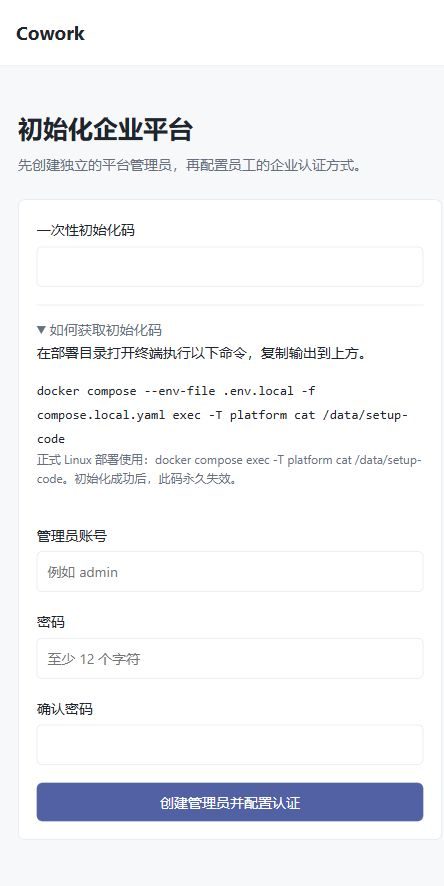
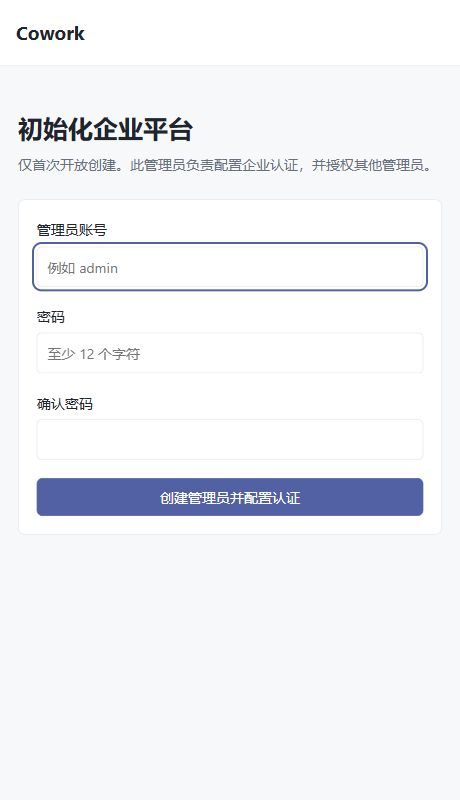
fix: 简化首次管理员创建并限制管理员授权来源

diff --git a/web/platform/ui/platform.js b/web/platform/ui/platform.js
@@ -52,7 +52,7 @@ async function login(){
   form.onsubmit=event=>{event.preventDefault();action(async()=>{const values=formData(form),source=data.items.find(x=>x.id===values.provider_id);form.querySelector("button").disabled=true;try{if(source.mode==="ldap"){await api("/auth/ldap",{method:"POST",body:{...values,mode:"web"}});me=await api("/me");dirty=false;await render();}else{const result=await api("/auth/transactions",{method:"POST",body:{provider_id:values.provider_id,mode:"web"}});location.assign(result.login_url);}}finally{form.querySelector("button").disabled=false;}});};
 }
 function administratorForm(setup){
-  content.innerHTML=`<section class="login"><h1>${setup?"初始化企业平台":"平台管理员登录"}</h1><p class="muted">${setup?"先创建独立的平台管理员，再配置员工的企业认证方式。":"使用部署时创建的管理员账号管理平台。"}</p><form id="administrator-form" class="form">${setup?`<label>一次性初始化码<input required name="setup_code" autocomplete="off" spellcheck="false"></label><details><summary>如何获取初始化码</summary><p>在部署目录打开终端执行以下命令，复制输出到上方。</p><pre>docker compose --env-file .env.local -f compose.local.yaml exec -T platform cat /data/setup-code</pre><p class="help">正式 Linux 部署使用：docker compose exec -T platform cat /data/setup-code。初始化成功后，此码永久失效。</p></details>`:""}<label>管理员账号<input required name="username" autocomplete="username" maxlength="64" ${setup?'minlength="3" pattern="[A-Za-z0-9][A-Za-z0-9._-]{2,63}" placeholder="例如 admin"':""}></label><label>密码<input required type="password" name="password" autocomplete="${setup?"new-password":"current-password"}" maxlength="256" ${setup?'minlength="12" placeholder="至少 12 个字符"':""}></label>${setup?'<label>确认密码<input required type="password" name="confirmation" autocomplete="new-password" minlength="12" maxlength="256"></label>':""}<button class="primary">${setup?"创建管理员并配置认证":"登录管理后台"}</button>${setup?"":`<a href="${base}/app" data-route>返回企业账号登录</a>`}</form></section>`;
+  content.innerHTML=`<section class="login"><h1>${setup?"初始化企业平台":"平台管理员登录"}</h1><p class="muted">${setup?"仅首次开放创建。此管理员负责配置企业认证，并授权其他管理员。":"使用部署时创建的管理员账号管理平台。"}</p><form id="administrator-form" class="form"><label>管理员账号<input required name="username" autocomplete="username" maxlength="64" ${setup?'minlength="3" pattern="[A-Za-z0-9][A-Za-z0-9._-]{2,63}" placeholder="例如 admin"':""}></label><label>密码<input required type="password" name="password" autocomplete="${setup?"new-password":"current-password"}" maxlength="256" ${setup?'minlength="12" placeholder="至少 12 个字符"':""}></label>${setup?'<label>确认密码<input required type="password" name="confirmation" autocomplete="new-password" minlength="12" maxlength="256"></label>':""}<button class="primary">${setup?"创建管理员并配置认证":"登录管理后台"}</button>${setup?"":`<a href="${base}/app" data-route>返回企业账号登录</a>`}</form></section>`;
   const form=document.getElementById("administrator-form");watchForm(form);
   form.onsubmit=event=>{event.preventDefault();action(async()=>{const values=formData(form);if(setup&&values.password!==values.confirmation)throw new Error("两次输入的密码不一致，请核对。");const submit=form.querySelector("button");submit.disabled=true;try{await api(setup?"/setup":"/auth/administrator",{method:"POST",body:values});dirty=false;me=await api("/me");navigate("/app/settings");}finally{submit.disabled=false;}});};
 }
@@ -64,11 +64,11 @@ async function members(){
   const show=()=>{const query=document.getElementById("member-search").value.toLowerCase();const filtered=members.items.filter(x=>(x.name+" "+x.email).toLowerCase().includes(query));table.innerHTML=filtered.length?`<table><thead><tr><th>成员</th><th>角色 / 状态</th><th>已分配模型</th><th>最近登录</th><th>操作</th></tr></thead><tbody>${filtered.map(m=>`<tr><td>${esc(m.name)}<span class="secondary-line">${esc(m.email||m.provider_id)}</span></td><td>${m.role==="admin"?"管理员":"成员"} · ${m.enabled?"启用":"停用"}</td><td>${m.model_ids.length?esc(m.model_ids.map(id=>models.items.find(x=>x.id===id)?.name||id).join("、")):"尚未分配"}</td><td>${date(m.last_login_at)}</td><td><button data-member="${esc(m.id)}">管理与分配</button></td></tr>`).join("")}</tbody></table>`:empty("尚无匹配成员；员工首次认证成功后会出现在这里。");table.querySelectorAll("[data-member]").forEach(b=>b.onclick=()=>navigate("/app/members/"+b.dataset.member));};document.getElementById("member-search").oninput=show;show();
 }
 function editMember(member,models){
-  heading(member.name,"模型权限按账号生效，不同步员工本机对话。","/app/members");
+  heading(member.name,"模型权限按账号生效；管理员角色由首位管理员授权或收回。","/app/members");
   content.insertAdjacentHTML("beforeend",`<form class="form" id="member-form"><div class="row"><label>平台角色<select name="role"><option value="member" ${member.role==="member"?"selected":""}>普通成员</option><option value="admin" ${member.role==="admin"?"selected":""}>平台管理员</option></select></label><label>账号状态<select name="enabled"><option value="true" ${member.enabled?"selected":""}>启用</option><option value="false" ${!member.enabled?"selected":""}>停用</option></select></label></div><div><h3>可用模型</h3><div class="check-list">${models.length?models.map(m=>`<label><input type="checkbox" name="models" value="${esc(m.id)}" ${member.model_ids.includes(m.id)?"checked":""}>${esc(m.name)}${m.enabled?"":"（当前停用）"}</label>`).join(""):"请先在模型页面添加服务。"}</div></div><label>默认模型<select name="default_model_id"><option value="">不设置（未分配模型）</option>${models.map(m=>`<option value="${esc(m.id)}" ${m.id===member.default_model_id?"selected":""}>${esc(m.name)}</option>`).join("")}</select></label><div class="actions-row"><button class="primary">保存权限</button><button type="button" id="cancel-member">取消</button></div></form>`);
-  const form=document.getElementById("member-form");watchForm(form);document.getElementById("cancel-member").onclick=()=>navigate("/app/members");
+  const form=document.getElementById("member-form");form.elements.role.disabled=!me.can_assign_admin||member.provider_id==="__platform_admin__";form.elements.enabled.disabled=member.provider_id==="__platform_admin__";watchForm(form);document.getElementById("cancel-member").onclick=()=>navigate("/app/members");
   const syncDefault=()=>{const selected=new FormData(form).getAll("models"),current=form.elements.default_model_id.value;const allowed=models.filter(m=>selected.includes(m.id));form.elements.default_model_id.innerHTML=allowed.length?allowed.map(m=>`<option value="${esc(m.id)}">${esc(m.name)}</option>`).join(""):'<option value="">未分配模型</option>';if(selected.includes(current))form.elements.default_model_id.value=current;};form.querySelectorAll('[name="models"]').forEach(input=>input.addEventListener("change",syncDefault));syncDefault();
-  form.onsubmit=e=>{e.preventDefault();action(async()=>{const values=formData(form);await api("/admin/members/"+member.id,{method:"PUT",body:{revision:member.revision,role:values.role,enabled:values.enabled==="true",model_ids:new FormData(form).getAll("models"),default_model_id:values.default_model_id}});dirty=false;navigate("/app/members");message("成员权限已保存。","success");});};
+  form.onsubmit=e=>{e.preventDefault();action(async()=>{const values=formData(form);await api("/admin/members/"+member.id,{method:"PUT",body:{revision:member.revision,role:values.role||member.role,enabled:values.enabled===undefined?member.enabled:values.enabled==="true",model_ids:new FormData(form).getAll("models"),default_model_id:values.default_model_id}});dirty=false;navigate("/app/members");message("成员权限已保存。","success");});};
 }
 async function models(){
   const data=await api("/admin/models");heading("模型","添加服务、测试实际调用，再分配给成员。");

diff --git a/test/test_enterprise_setup.py b/test/test_enterprise_setup.py
@@ -23,8 +23,7 @@ def server(tmp_path):
 
 
 def create_admin(client, settings, **changes):
-    payload = dict(setup_code=(settings.data_dir/'setup-code').read_text().strip(),
-                   username='admin', password='unique administrator password')
+    payload = dict(username='admin', password='unique administrator password')
     payload.update(changes)
     return client.post('/api/v1/setup', json=payload)
 
@@ -53,11 +52,9 @@ def test_setup_login_and_configuration_without_enterprise_auth(server):
         assert len(credential.password_hash) == 128
 
 
-def test_setup_code_and_origin_protection(server):
+def test_setup_validation_and_origin_protection(server):
     client, app, settings = server
-    assert create_admin(client, settings, setup_code='wrong').status_code == 403
-    assert create_admin(client, settings, setup_code='错误初始化码').status_code == 403
-    payload=dict(setup_code=(settings.data_dir/'setup-code').read_text().strip(),username='admin',password='long enough password')
+    payload=dict(username='admin',password='long enough password')
     assert client.post('/api/v1/setup', json=payload, headers={'Origin':'https://untrusted.invalid'}).status_code == 403
     assert create_admin(client, settings, password='short').status_code == 400
     assert client.get('/api/v1/setup').json()['required']
@@ -93,11 +90,6 @@ def test_setup_rejects_concurrent_claim(server):
 
 def test_throttling_persists_and_recovers(server):
     client, app, settings = server
-    for _ in range(5):
-        assert create_admin(client, settings, setup_code='wrong').status_code == 403
-    assert create_admin(client, settings).status_code == 429
-    with app.state.database.transaction() as db:
-        db.get(Installation,1).locked_until=time.time()-1
     assert create_admin(client, settings).status_code == 200
     for _ in range(5):
         assert client.post('/api/v1/auth/administrator',json={'username':'admin','password':'wrong'}).status_code == 401
@@ -111,3 +103,36 @@ def test_disabled_admin_cannot_login(server):
     with app.state.database.transaction() as db:
         db.scalar(select(Member)).enabled=False
     assert client.post('/api/v1/auth/administrator',json={'username':'admin','password':'unique administrator password'}).status_code == 401
+
+
+def test_only_founder_can_authorize_another_administrator(server):
+    client, app, settings = server
+    assert create_admin(client, settings).status_code == 200
+    founder=client.get('/api/v1/me').json()['member']['id']
+    with app.state.database.transaction() as db:
+        member=Member(provider_id='sso',subject='employee',name='员工')
+        another=Member(provider_id='sso',subject='another',name='另一个员工')
+        db.add_all([member,another]);db.flush()
+        member_id,another_id=member.id,another.id
+    payload={'revision':1,'role':'admin'}
+    session=app.state.auth.session(member_id,'web')
+    headers={'Authorization':'Bearer '+session['access_token']}
+    assert client.put('/api/v1/admin/members/'+member_id,json=payload,headers=headers).status_code==403
+    csrf={'X-CSRF-Token':client.cookies['cowork_csrf']}
+    assert client.put('/api/v1/admin/members/'+member_id,json=payload,headers=csrf).status_code==200
+    assert client.put('/api/v1/admin/members/'+another_id,json=payload,headers=headers).status_code==403
+    assert client.put('/api/v1/admin/members/'+founder,json={'revision':1,'enabled':False},headers=headers).status_code==409
+    assert client.put('/api/v1/admin/members/'+member_id,json={'revision':2,'role':'member'},headers=csrf).status_code==200
+    assert create_admin(client,settings).status_code==409
+
+
+def test_legacy_bootstrap_cannot_grant_admin_after_setup(server):
+    from dataclasses import replace
+    client,app,settings=server
+    assert create_admin(client,settings).status_code==200
+    app.state.auth.settings=replace(settings,bootstrap_provider='legacy',bootstrap_subject='new-person')
+    with app.state.database.transaction() as db:
+        db.add(AuthSource(id='legacy',name='legacy',mode='oauth2',config={},secret='',enabled=True,revision=1,verified_revision=1))
+    member_id=app.state.auth.register({'id':'legacy','revision':1,'verified_revision':1},{'subject':'new-person','name':'new-person','email':''})
+    with app.state.database.transaction() as db:
+        assert db.get(Member,member_id).role=='member'

diff --git a/web/platform/server/administrator.py b/web/platform/server/administrator.py
@@ -1,7 +1,6 @@
 """One-time deployment setup and a separate, web-only platform administrator."""
 import hashlib
 import logging
-import os
 import re
 import threading
 import time
@@ -22,7 +21,6 @@ class AdministratorAccess:
     def __init__(self, settings, database):
         self.settings, self.database = settings, database
         self.lock = threading.RLock()
-        self.code_path = settings.data_dir / 'setup-code'
 
     def available(self, db):
         state = db.get(Installation, 1)
@@ -34,14 +32,7 @@ class AdministratorAccess:
                 db.add(Installation(id=1))
                 db.flush()
             if self.available(db):
-                try:
-                    fd = os.open(self.code_path, os.O_WRONLY | os.O_CREAT | os.O_EXCL, 0o600)
-                except FileExistsError:
-                    pass
-                else:
-                    with os.fdopen(fd, 'w', encoding='ascii') as file:
-                        file.write(token() + '\n')
-                log.info('installation.pending code_file=/data/setup-code')
+                log.info('installation.pending')
 
     def status(self):
         with self.database.transaction() as db:
@@ -72,22 +63,15 @@ class AdministratorAccess:
             state = db.get(Installation, 1)
             if not self.available(db):
                 raise PlatformError('setup_completed', '平台已完成初始化，请使用已有管理员账号登录。', 409)
-            self.throttle(state)
-            code = payload.get('setup_code')
-            if not isinstance(code, str) or not equal(digest(code), digest(self.code_path.read_text(encoding='ascii').strip())):
-                self.reject(db, state, 'installation.rejected')
-            else:
-                salt = token()
-                member = Member(provider_id='__platform_admin__', subject=username, name=username, role='admin')
-                db.add(member)
-                db.flush()
-                db.add(LocalAdministrator(id=1, member_id=member.id, username=username,
-                                          password_hash=password_hash(password, salt), salt=salt))
-                state.completed, state.failures, state.locked_until = True, 0, 0
-                member_id = member.id
-                self.database.audit(db, 'installation.completed', member_id=member_id)
-        if not member_id:
-            raise PlatformError('setup_code_invalid', '初始化码不正确，请从部署服务器获取后重试。', 403)
+            salt = token()
+            member = Member(provider_id='__platform_admin__', subject=username, name=username, role='admin')
+            db.add(member)
+            db.flush()
+            db.add(LocalAdministrator(id=1, member_id=member.id, username=username,
+                                      password_hash=password_hash(password, salt), salt=salt))
+            state.completed, state.failures, state.locked_until = True, 0, 0
+            member_id = member.id
+            self.database.audit(db, 'installation.completed', member_id=member_id)
         log.info('installation.completed member=%s', member_id)
         return member_id
 

diff --git a/web/platform/server/auth.py b/web/platform/server/auth.py
@@ -12,7 +12,7 @@ from sqlalchemy import select, update
 from sqlalchemy.exc import IntegrityError
 
 from .config import service_url
-from .database import AuthSource, LoginSession, LoginTransaction, Member
+from .database import AuthSource, Installation, LoginSession, LoginTransaction, Member, Platform
 from .security import PlatformError, challenge, digest, equal, token
 
 log = logging.getLogger(__name__)
@@ -323,14 +323,18 @@ class Authentication:
                 "email": str(field(profile, p["email_path"], "") or "")[:512]}
 
     def register(self, snapshot, identity):
-        bootstrap = (snapshot["id"] == self.settings.bootstrap_provider
+        bootstrap_candidate = (snapshot["id"] == self.settings.bootstrap_provider
                      and identity["subject"] == self.settings.bootstrap_subject)
-        if snapshot.get("verified_revision") != snapshot["revision"] and not (bootstrap or snapshot.get("test_actor")):
-            raise PlatformError("source_not_verified", "管理员尚未完成此认证配置的测试登录。", 403)
         # Unique provider+subject plus retry resolves simultaneous first logins.
         for attempt in range(2):
             try:
                 with self.database.transaction() as db:
+                    db.scalar(select(Platform).where(Platform.id == 1).with_for_update())
+                    installation = db.get(Installation, 1)
+                    bootstrap = (bootstrap_candidate and not (installation and installation.completed)
+                                 and not db.scalar(select(Member.id).limit(1)))
+                    if snapshot.get("verified_revision") != snapshot["revision"] and not (bootstrap or snapshot.get("test_actor")):
+                        raise PlatformError("source_not_verified", "管理员尚未完成此认证配置的测试登录。", 403)
                     source = db.get(AuthSource, snapshot["id"])
                     if source is None or source.revision != snapshot["revision"]:
                         raise PlatformError("source_changed", "登录期间认证配置已变更，请重新登录。", 409)
@@ -355,6 +359,8 @@ class Authentication:
                     member.name, member.email, member.last_login_at = identity["name"], identity["email"], time.time()
                     if bootstrap:
                         source.verified_revision = source.revision
+                        if installation:
+                            installation.completed = True
                     return member.id
             except IntegrityError:
                 if attempt:

diff --git a/web/platform/server/management.py b/web/platform/server/management.py
@@ -8,7 +8,7 @@ from sqlalchemy import delete, func, select
 from sqlalchemy.exc import IntegrityError
 
 from .config import service_url
-from .database import AuthSource, LoginSession, Member, Model, ModelGrant, Question
+from .database import AuthSource, LocalAdministrator, LoginSession, Member, Model, ModelGrant, Question
 from .security import PlatformError, digest, encode, equal
 
 MODEL_OPTIONS = {"supports_vision", "supports_image_generation", "stream_usage_enabled", "deepseek_thinking_enabled",
@@ -76,6 +76,11 @@ class Management:
             enabled = payload.get("enabled", member.enabled)
             if role not in {"admin", "member"} or type(enabled) is not bool:
                 raise PlatformError("invalid_member", "成员角色或启用状态无效。")
+            founder = db.get(LocalAdministrator, 1)
+            if founder and member.id == founder.member_id and (role != "admin" or not enabled):
+                raise PlatformError("founder_required", "首位管理员负责管理员授权，不能停用或降级。", 409)
+            if founder and role != member.role and actor != founder.member_id:
+                raise PlatformError("founder_required", "管理员角色只能由首位管理员授权或收回。", 403)
             if member.role == "admin" and member.enabled and (role != "admin" or not enabled):
                 admins = db.scalar(select(func.count()).select_from(Member).where(Member.role == "admin", Member.enabled))
                 if admins <= 1:

diff --git a/web/platform/server/app.py b/web/platform/server/app.py
@@ -21,7 +21,7 @@ from .auth import Authentication, oauth_compatibility_preset
 from .administrator import AdministratorAccess
 from .config import Settings
 from .database import (AuditEvent, AuthSource, ClientRelease, Database, LoginSession, LoginTransaction,
-                       Member, Model, Platform, Question)
+                       LocalAdministrator, Member, Model, Platform, Question)
 from .management import Management, member_view, model_view
 from .releases import Releases, public_release
 from .security import PlatformError, Vault, digest
@@ -306,7 +306,11 @@ def create_app(settings=None, *, transport=None):
     @app.get("/api/v1/me")
     def me(request: Request):
         user = principal(request)
-        return {"member": user, "models": management.models(user["id"]), "platform_id": settings.platform_id}
+        with database.transaction() as db:
+            founder = db.get(LocalAdministrator, 1)
+            can_assign_admin = user["role"] == "admin" and (not founder or founder.member_id == user["id"])
+        return {"member": user, "models": management.models(user["id"]), "platform_id": settings.platform_id,
+                "can_assign_admin": can_assign_admin}
 
     @app.post("/api/v1/auth/logout")
     def logout(request: Request):

diff --git a/web/platform/README.md b/web/platform/README.md
@@ -15,21 +15,21 @@
 
 本机配置使用 `compose.local.yaml`，仅映射 `127.0.0.1:8788`，数据库不对宿主机开放端口。数据库和发布文件使用独立命名卷；该入口运行真实中心服务，不注入演示管理员。
 
-首次已构建或导入 `cowork-enterprise:local` 镜像后，在此文件夹执行 `powershell -NoProfile -ExecutionPolicy Bypass -File .\start-local.ps1`。脚本首次生成 `.env.local` 的随机数据库密码和加密密钥，以后保留原配置；请保管此文件，不要在已有数据卷时删除重建。访问 `http://localhost:8788/app`。首次打开网页会进入初始化页面：获取一次性初始化码，创建独立管理员账号，然后在“设置 → 添加认证来源”配置企业认证。
+首次已构建或导入 `cowork-enterprise:local` 镜像后，在此文件夹执行 `powershell -NoProfile -ExecutionPolicy Bypass -File .\start-local.ps1`。脚本首次生成 `.env.local` 的随机数据库密码和加密密钥，以后保留原配置；请保管此文件，不要在已有数据卷时删除重建。访问 `http://localhost:8788/app`。首次打开网页会进入初始化页面：直接创建首位独立管理员账号，然后在“设置 → 添加认证来源”配置企业认证。
 
 停止：`docker compose --env-file .env.local -f compose.local.yaml stop`。重新启动：再次运行启动脚本。导出的镜像包不包含本机凭据或数据库；镜像导入可用 `docker load -i images.tar`。
 
 ## 首次网页初始化与管理员登录
 
 1. 启动容器后打开 `/app`，空平台自动显示“初始化企业平台”。
-2. 在部署目录执行下面命令获取一次性初始化码：
-   - 本机：`docker compose --env-file .env.local -f compose.local.yaml exec -T platform cat /data/setup-code`
-   - Linux：`docker compose exec -T platform cat /data/setup-code`
-3. 在网页填写初始化码、管理员账号、密码及确认密码。账号为 3–64 位字母、数字、点、横线或下划线；密码至少 12 个字符。
-4. 创建后直接进入“设置”，点击“添加认证来源”，填写 OAuth2、OIDC 或 LDAP 参数；保存草稿、完成测试登录、启用。
-5. 员工使用企业认证登录；管理员使用登录页的“平台管理员登录”。尚无启用的企业认证时，网页直接显示管理员登录。
+2. 在网页填写管理员账号、密码及确认密码，直接创建首位管理员。账号为 3–64 位字母、数字、点、横线或下划线；密码至少 12 个字符。
+3. 创建后直接进入“设置”，点击“添加认证来源”，填写 OAuth2、OIDC 或 LDAP 参数；保存草稿、完成测试登录、启用。
+4. 员工使用企业认证登录，默认是普通成员；首位管理员在“成员 → 管理与分配”授予或收回管理员角色。其他管理员不能转授管理员角色。
+5. 管理员使用登录页的“平台管理员登录”。尚无启用的企业认证时，网页直接显示管理员登录。
 
-管理员密码按随机盐和 scrypt 派生存储，不能读取原密码。此管理员入口仅提供网页会话，不作为员工桌面认证来源。初始化码只保存在部署卷的 `setup-code` 文件中，不由网页公开、不进入镜像；初始化后永久失效。已有成员或认证来源的平台不开放初始化。连续 5 次错误后暂停尝试 5 分钟，失败输入保留。当前版本没有网页找回或修改管理员密码入口，请妥善保管创建的密码。
+首次创建只允许成功一次，并发提交只有一个能成功。初始化完成状态持久保存，重启、账号停用或移除不会重新开放；已有成员或认证来源的平台也不开放首次创建。首位管理员负责后续管理员授权，不能停用或降级。旧式 bootstrap 配置仅用于没有成员且未初始化的实例，之后不会再自动授予管理员角色。
+
+管理员密码按随机盐和 scrypt 派生存储，不能读取原密码。此管理员入口仅提供网页会话，不作为员工桌面认证来源。无需初始化码；旧版本遗留的 `setup-code` 文件不再读取或生效。管理员登录连续 5 次错误后暂停尝试 5 分钟，失败输入保留。当前版本没有网页找回或修改管理员密码入口，请妥善保管创建的密码。
 
 ## Linux 部署
 

diff --git a/docs/enterprise-platform.md b/docs/enterprise-platform.md
@@ -48,6 +48,6 @@ Linux 部署、首次管理员、OIDC/OAuth2/LDAP 参数、发布和备份规则
 
 ## 首次部署与平台管理员
 
-空平台启动后访问 `/app`，网页会引导创建独立的平台管理员；无需先配置企业认证。初始化码从部署端获取，具体命令见[部署说明](../web/platform/README.md#首次网页初始化与管理员登录)。创建后进入“设置 → 添加认证来源”，保存 OAuth2、OIDC 或 LDAP 配置，测试登录通过后启用。员工仍使用企业账号；平台管理员可通过登录页的独立入口登录。
+空平台启动后访问 `/app`，网页会引导创建独立的平台管理员；无需先配置企业认证。直接填写账号和密码即可，首次创建只允许成功一次，详见[部署说明](../web/platform/README.md#首次网页初始化与管理员登录)。创建后进入“设置 → 添加认证来源”，保存 OAuth2、OIDC 或 LDAP 配置，测试登录通过后启用。员工仍使用企业账号，默认是普通成员；管理员角色由首位管理员在“成员”页面授予或收回。平台管理员可通过登录页的独立入口登录。
 
 ![首次网页初始化](images/enterprise/platform-setup.png)
